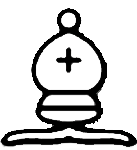
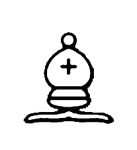
Lagt inn brikker + nye brikkebilder

Changed region(s): [[0.0, 0.0533, 1.0, 0.9867]]

diff --git a/src/sjakk/Brikke.java b/src/sjakk/Brikke.java
@@ -6,6 +6,8 @@ import javafx.scene.paint.Color;
 import javafx.scene.shape.Circle;
 import javafx.scene.shape.Ellipse;
 import static sjakk.SpillerAnimasjon.RUTE_STR;
+import javafx.scene.paint.ImagePattern;
+import javafx.scene.image.Image;
 
 /**
  *
@@ -24,49 +26,65 @@ public class Brikke extends StackPane{
         this.farge = farge;
         
         startPlass(x,y);
-     
         
-        Ellipse ellipse = new Ellipse(RUTE_STR * 0.3125, RUTE_STR * 0.26);
+    
+        
+        Ellipse ellipse = new Ellipse(RUTE_STR * 0.4125, RUTE_STR * 0.26, RUTE_STR/3, RUTE_STR/3);
+        //Hvite Brikker
+         Image HvitTårn = new Image("File:src/Bilder/HvitTårn.png",false);
+         Image HvitBonde = new Image("File:src/Bilder/HvitBonde.png",false);
+         Image HvitHest = new Image("File:src/Bilder/HvitHest.png",false);
+         Image HvitSpringer = new Image("File:src/Bilder/HvitSpringer.png",false);
+         Image HvitDronning = new Image("File:src/Bilder/HvitDronning.png",false);
+         Image HvitKonge = new Image("File:src/Bilder/HvitKonge.png",false);
+         //Svarte Brikker
+         Image SvartBonde = new Image("File:src/Bilder/SvartBonde.png",false);
+         Image SvartTårn = new Image("File:src/Bilder/SvartTårn.png",false);
+         Image SvartHest = new Image("File:src/Bilder/SvartHest.png",false);
+         Image SvartSpringer = new Image("File:src/Bilder/SvartSpringer.png",false);
+         Image SvartKonge = new Image("File:src/Bilder/SvartKonge.png",false);
+         Image SvartDronning = new Image("File:src/Bilder/SvartDronning.png",false);
+        
         
         if(this.farge.equals("hvit")){
             if(type.equals("Bonde"))
-                ellipse.setStyle("-fx-background-image: Bilder/HvitBonde.png");
+                ellipse.setFill(new ImagePattern(HvitBonde)) ;
             else
             if(type.equals("Tårn"))
-                 ellipse.setStyle("-fx-background-image: Bilder/HvitTårn.png");
+                 ellipse.setFill(new ImagePattern(HvitTårn)) ;
             else
             if(type.equals("Hest"))
-                 ellipse.setStyle("-fx-background-image: Bilder/HvitHest.png");
+                 ellipse.setFill(new ImagePattern(HvitHest)) ;
             else
             if(type.equals("Springer"))
-                 ellipse.setStyle("-fx-background-image: Bilder/HvitSpringer.png");
+                 ellipse.setFill(new ImagePattern(HvitSpringer)) ;
             else
             if(type.equals("Dronning"))
-                 ellipse.setStyle("-fx-background-image: Bilder/HvitDronning.png");
-            else
+                 ellipse.setFill(new ImagePattern(HvitDronning)) ;
+           else
             if(type.equals("Konge"))
-                 ellipse.setStyle("-fx-background-image: Bilder/HvitKonge.png");
+                 ellipse.setFill(new ImagePattern(HvitKonge)) ;
                     
         
         }
         else{
             if(type.equals("Bonde"))
-                ellipse.setStyle("-fx-background-image: Bilder/SvartBonde.png");
-            else
+                ellipse.setFill(new ImagePattern(SvartBonde)) ;
+             else
             if(type.equals("Tårn"))
-                 ellipse.setStyle("-fx-background-image: Bilder/SvartTårn.png");
+                 ellipse.setFill(new ImagePattern(SvartTårn)) ;
             else
             if(type.equals("Hest"))
-                 ellipse.setStyle("-fx-background-image: Bilder/SvartHest.png");
+                 ellipse.setFill(new ImagePattern(SvartHest)) ;
             else
             if(type.equals("Springer"))
-                 ellipse.setStyle("-fx-background-image: Bilder/SvartSpringer.png");
+                 ellipse.setFill(new ImagePattern(SvartSpringer)) ;
             else
             if(type.equals("Dronning"))
-                 ellipse.setStyle("-fx-background-image: Bilder/SvartDronning.png");
+                 ellipse.setFill(new ImagePattern(SvartDronning)) ;
             else
             if(type.equals("Konge"))
-                 ellipse.setStyle("-fx-background-image: Bilder/SvartKonge.png");
+                 ellipse.setFill(new ImagePattern(SvartKonge)) ;
                     
         
         }

diff --git a/src/sjakk/SpillerAnimasjon.java b/src/sjakk/SpillerAnimasjon.java
@@ -23,7 +23,7 @@ public class SpillerAnimasjon extends Pane{
     public static final int HOYDE = 8;
     
     private Rute [][] brett;
-    String[] brikkeFørste = {"Tårn","Hest","Løper","Dronning","Konge","Løper","Hest","Tårn"};
+    String[] brikkeFørste = {"Tårn","Hest","Springer","Dronning","Konge","Springer","Hest","Tårn"};
     
     private Group ruteGruppe = new Group();
     private Group brikkeGruppe = new Group();
